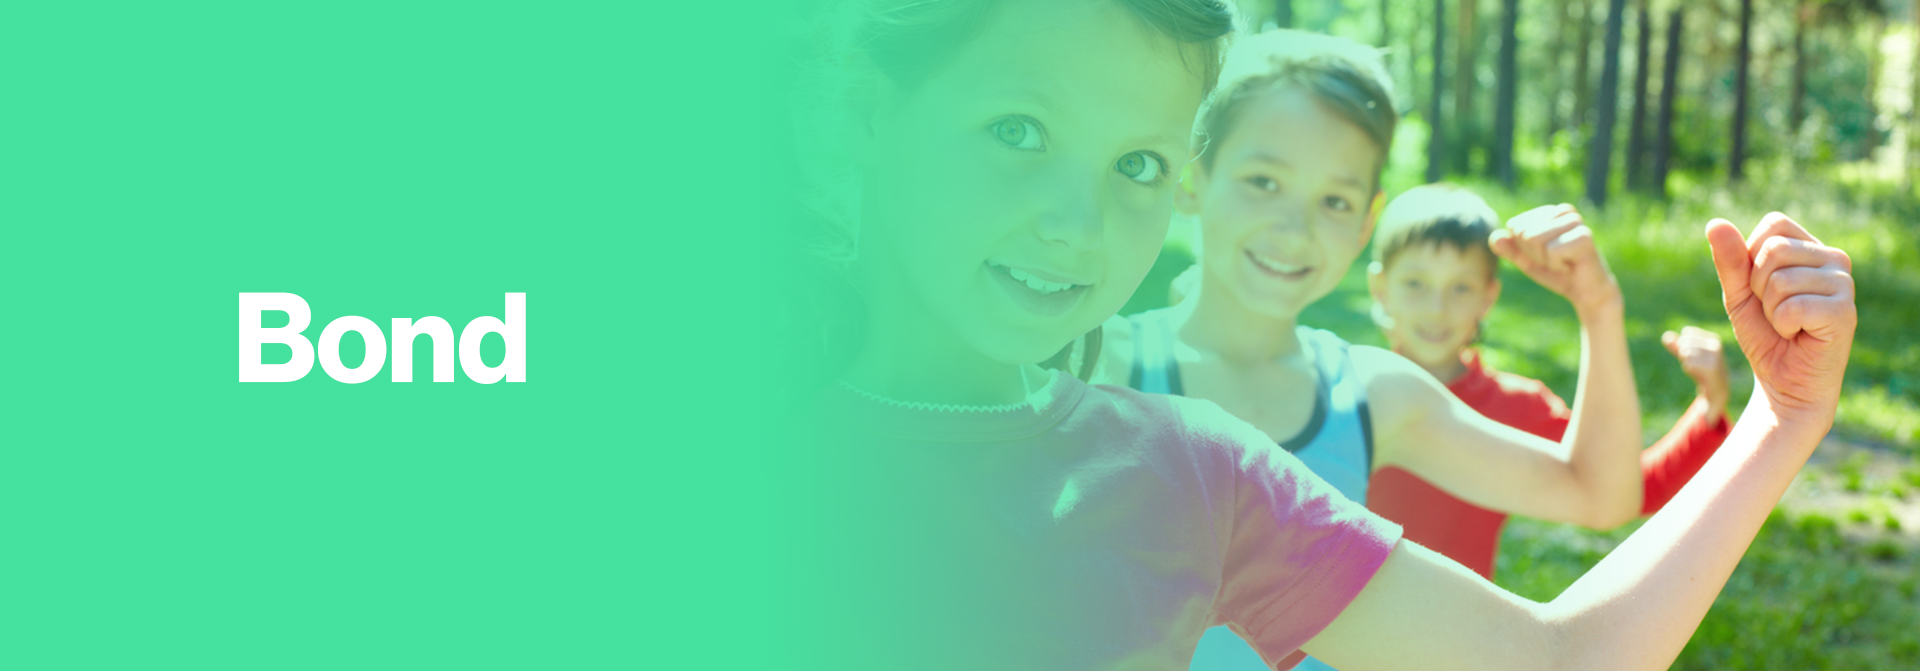
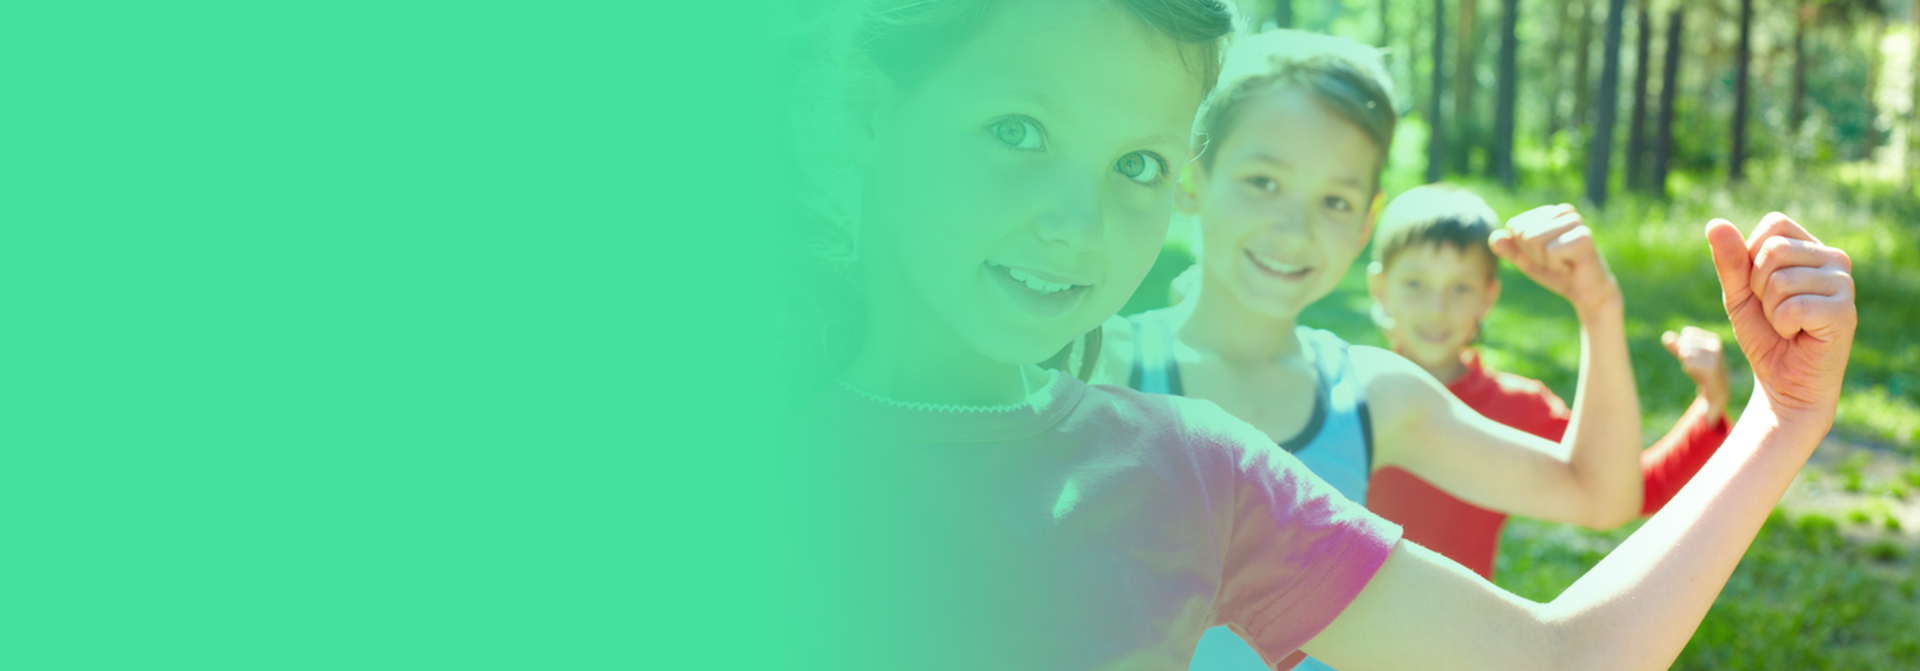
bond done

Changed region(s): [[0.125, 0.4173, 0.2812, 0.5663]]

diff --git a/assets/less/portfolio.less b/assets/less/portfolio.less
@@ -170,7 +170,7 @@ section.sec-korure {
           font-size: 12px;
           color: #cccccc;
 
-          &.relative{
+          &.relative {
             position: relative;
             top: -50px;
           }
@@ -205,19 +205,18 @@ section.sec-korure {
     position: relative;
     padding: 50px 0px;
 
-    .abso-img{
+    .abso-img {
       position: absolute;
       width: 100%;
       left: 0px;
       top: 0px;
       padding: 70px 0px;
 
-      .headingImg{
+      .headingImg {
         position: relative;
         width: 500px;
       }
     }
-
 
     .img-big {
       position: relative;
@@ -511,6 +510,23 @@ section.sec-korure {
 section.sec-bond {
   position: relative;
 
+  .bond-head {
+    position: absolute;
+    top: 0px;
+    left: 0px;
+    width: 100%;
+    height: 100%;
+    display: flex;
+    align-items: center;
+
+    h1 {
+      font-size: 124px;
+      color: #fff;
+      font-family: "nb";
+      margin: 0px;
+    }
+  }
+
   .head {
     position: relative;
 
@@ -610,7 +626,6 @@ section.sec-bond {
 
   .sec-b10 {
     position: relative;
-    padding-bottom: 150px;
 
     .main-flex {
       display: flex;

diff --git a/assets/css/style.css b/assets/css/style.css
@@ -953,6 +953,21 @@ section.sec-korure .sec-last-k {
 section.sec-bond {
   position: relative;
 }
+section.sec-bond .bond-head {
+  position: absolute;
+  top: 0px;
+  left: 0px;
+  width: 100%;
+  height: 100%;
+  display: flex;
+  align-items: center;
+}
+section.sec-bond .bond-head h1 {
+  font-size: 124px;
+  color: #fff;
+  font-family: "nb";
+  margin: 0px;
+}
 section.sec-bond .head {
   position: relative;
 }
@@ -1033,7 +1048,6 @@ section.sec-bond .sec-b5 .main-flex .flex-grid img {
 }
 section.sec-bond .sec-b10 {
   position: relative;
-  padding-bottom: 150px;
 }
 section.sec-bond .sec-b10 .main-flex {
   display: flex;

diff --git a/bond.html b/bond.html
@@ -56,6 +56,11 @@
             </div>
         </section>
         <section class="head hide-mobile">
+            <div class="bond-head">
+                <div class="container">
+                    <h1>Bond</h1>
+                </div>
+            </div>
             <img src="assets/img/b1.png" alt="">
         </section>
 
